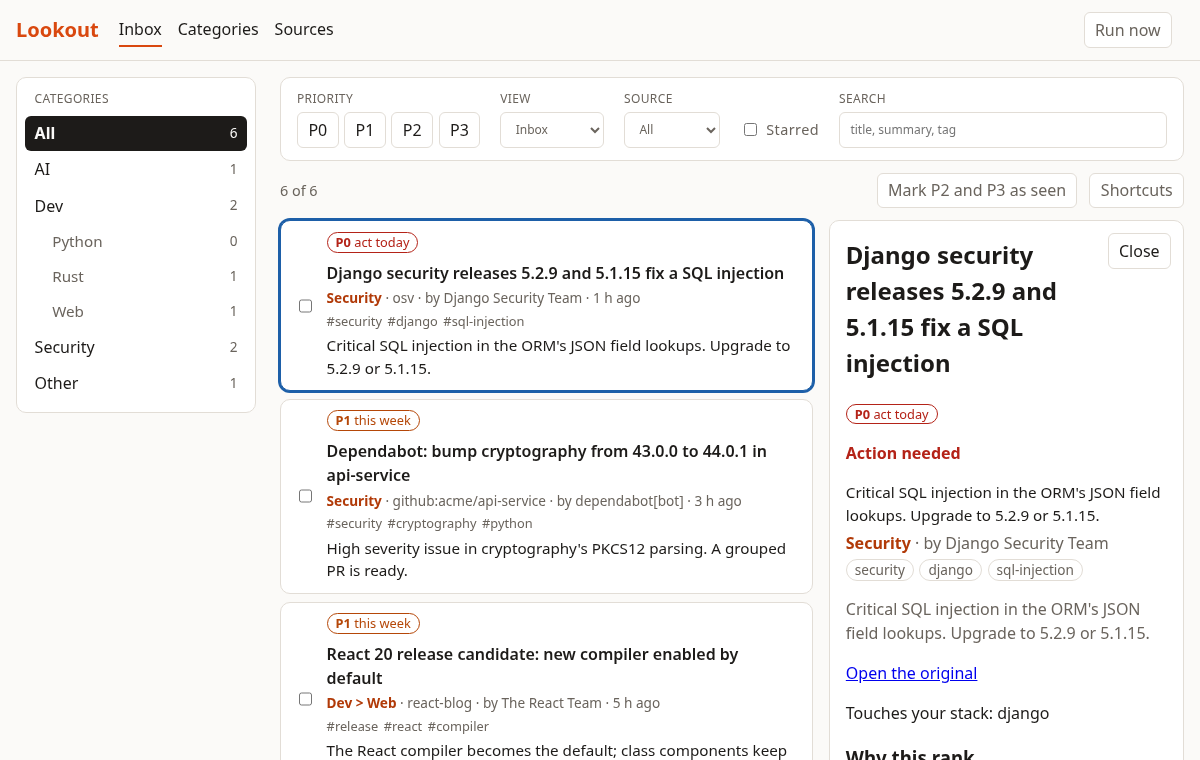
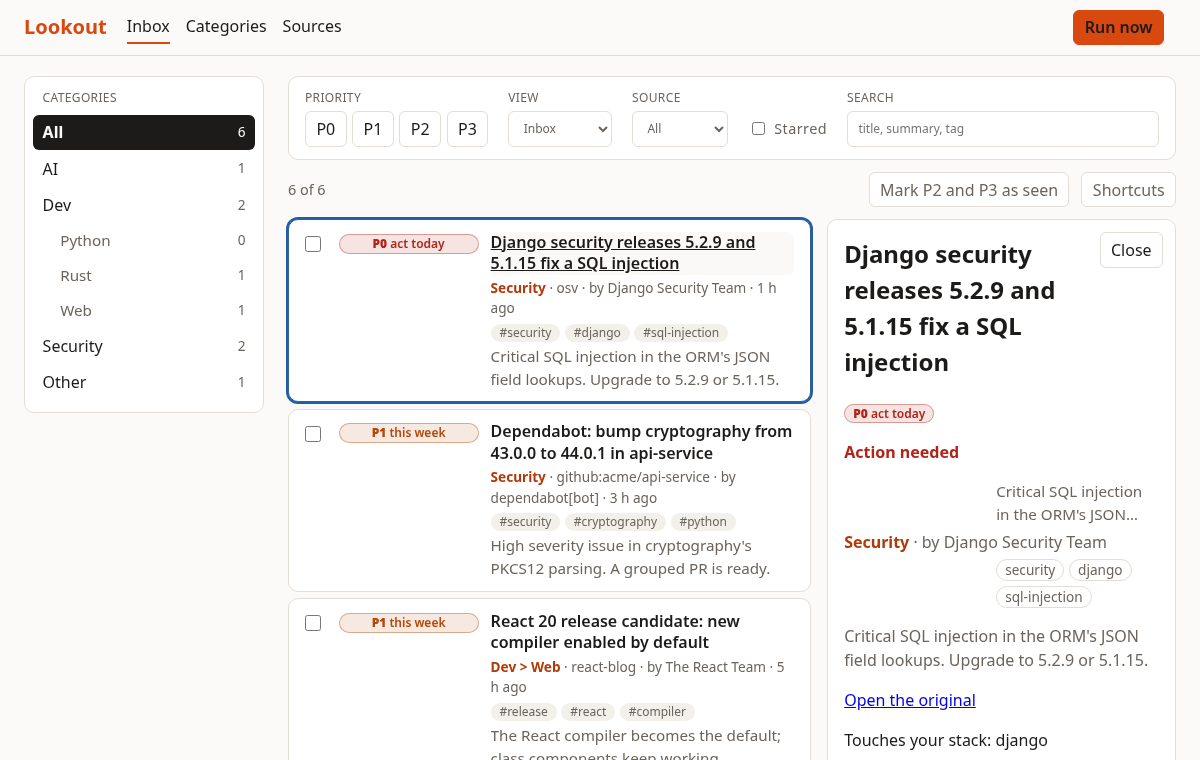
feat(dashboard): dense aligned inbox rows and a structured categories page
Titles of all items start in one column behind a fixed-width priority badge, with
metadata, tags and a two-line summary under them. Controls share one height and a
hover state, Run now is the one accent action, the header sticks, the detail panel
sticks beside the list, and the categories page is one ruled list with aligned
columns. Respects reduced motion; "1 item" is singular.

diff --git a/frontend/src/styles.css b/frontend/src/styles.css
@@ -11,6 +11,8 @@
   --p2: #1d5fa8;
   --p3: #5c6670;
   --focus: #1d5fa8;
+  --surface-2: #f3efe9;
+  --ease: 150ms ease;
   color-scheme: light dark;
 }
 @media (prefers-color-scheme: dark) {
@@ -27,6 +29,7 @@
     --p2: #7fb2ee;
     --p3: #a5aeb8;
     --focus: #7fb2ee;
+    --surface-2: #28241f;
   }
 }
 * {
@@ -577,4 +580,176 @@ td button + button {
   margin: 0.2rem 0 0;
   font-size: 0.8rem;
   color: var(--muted);
+}
+
+/* Design pass: dense, aligned and quick to scan. Titles line up in one column, metadata under them. */
+:root {
+  --badge-col: 8.75rem;
+}
+header {
+  position: sticky;
+  top: 0;
+  z-index: 5;
+  background: var(--bg);
+  padding: 0.6rem 1.5rem;
+}
+main {
+  padding: 1.25rem 1.5rem 3rem;
+}
+button,
+select,
+input[type="search"] {
+  min-height: 2rem;
+  transition:
+    background var(--ease),
+    border-color var(--ease);
+}
+button:not(:disabled):hover,
+select:hover {
+  background: var(--surface-2);
+  border-color: var(--muted);
+}
+select {
+  cursor: pointer;
+}
+.run button {
+  background: var(--accent);
+  border-color: var(--accent);
+  color: #1d1b19;
+  font-weight: 600;
+}
+.run button:disabled {
+  background: var(--card);
+  border-color: var(--line);
+  color: var(--muted);
+}
+.items {
+  gap: 0.4rem;
+}
+.item {
+  display: grid;
+  grid-template-columns: 1.25rem minmax(0, 1fr);
+  gap: 0 0.85rem;
+  padding: 0.7rem 1rem;
+  align-items: start;
+  transition: border-color var(--ease);
+}
+.item:hover {
+  border-color: var(--muted);
+}
+.item > input[type="checkbox"] {
+  margin: 0.3rem 0 0;
+  width: 1rem;
+  height: 1rem;
+}
+.item-head {
+  display: flex;
+  flex-wrap: nowrap;
+  align-items: baseline;
+  gap: 0.75rem;
+}
+.item-head .badge {
+  flex: 0 0 var(--badge-col);
+  text-align: center;
+}
+.item-head .star {
+  order: 3;
+}
+.title {
+  font-size: 1rem;
+  line-height: 1.35;
+}
+.meta,
+.tags,
+.summary {
+  margin-left: calc(var(--badge-col) + 0.75rem);
+}
+.summary {
+  color: var(--muted);
+  display: -webkit-box;
+  -webkit-line-clamp: 2;
+  -webkit-box-orient: vertical;
+  overflow: hidden;
+}
+.tags {
+  display: flex;
+  flex-wrap: wrap;
+  gap: 0.3rem;
+  margin-top: 0.3rem;
+  margin-bottom: 0;
+}
+.tags span {
+  background: var(--surface-2);
+  border-radius: 999px;
+  padding: 0 0.55rem;
+  font-size: 0.75rem;
+}
+.badge {
+  font-size: 0.75rem;
+  font-weight: 600;
+  background: color-mix(in srgb, currentColor 12%, transparent);
+  border-color: color-mix(in srgb, currentColor 40%, transparent);
+}
+@media (max-width: 700px) {
+  .item-head {
+    flex-wrap: wrap;
+  }
+  .meta,
+  .tags,
+  .summary {
+    margin-left: 0;
+  }
+}
+.detail {
+  position: sticky;
+  top: 4.5rem;
+  align-self: start;
+  max-height: calc(100vh - 5.5rem);
+  overflow-y: auto;
+}
+th {
+  font-size: 0.75rem;
+  letter-spacing: 0.03em;
+  text-transform: uppercase;
+  color: var(--muted);
+  font-weight: 600;
+}
+tbody tr:hover {
+  background: var(--surface-2);
+}
+.channels {
+  list-style: none;
+  margin: 0.75rem 0 1rem;
+  padding: 0;
+  background: var(--card);
+  border: 1px solid var(--line);
+  border-radius: 10px;
+  padding: 0 1rem;
+}
+.channels li {
+  display: flex;
+  flex-wrap: wrap;
+  align-items: center;
+  gap: 0.4rem 0.75rem;
+  padding-block: 0.6rem;
+  border-bottom: 1px solid var(--line);
+}
+.channels li:last-child {
+  border-bottom: 0;
+}
+.channels li > strong {
+  min-width: 9rem;
+}
+.channels .count {
+  min-width: 4.5rem;
+  color: var(--muted);
+  font-variant-numeric: tabular-nums;
+}
+.channels .feeders {
+  flex-basis: 100%;
+}
+@media (prefers-reduced-motion: reduce) {
+  * {
+    transition: none !important;
+  }
 }

diff --git a/frontend/e2e/shots.spec.ts b/frontend/e2e/shots.spec.ts
@@ -26,3 +26,12 @@ test("an item with the reason for its priority", async ({ browser }) => {
   await page.screenshot({ path: `${OUT}/detail-light.png` });
   await context.close();
 });
+
+test("the categories, as a tree", async ({ browser }) => {
+  const context = await browser.newContext({ colorScheme: "dark", viewport: { width: 1200, height: 760 } });
+  const page = await context.newPage();
+  await page.goto("/categories");
+  await expect(page.getByRole("region", { name: "Categories" })).toBeVisible();
+  await page.screenshot({ path: `${OUT}/categories-dark.png` });
+  await context.close();
+});

diff --git a/frontend/src/Manage.test.tsx b/frontend/src/Manage.test.tsx
@@ -248,7 +248,7 @@ describe("categories", () => {
     expect(ai).toHaveTextContent("Models");
     expect(ai).toHaveTextContent("fed by blog");
     const dev = within(panel).getByRole("button", { name: "Edit Dev" }).closest("li") as HTMLElement;
-    expect(dev).toHaveTextContent("1 items");
+    expect(dev).toHaveTextContent("1 item");
     expect(dev).toHaveTextContent("any source may file items here");
     const rust = within(panel).getByRole("button", { name: "Edit Dev > Rust" }).closest("li") as HTMLElement;
     expect(rust.style.paddingLeft).toBe("1.5rem");

diff --git a/frontend/src/components/CategoriesView.tsx b/frontend/src/components/CategoriesView.tsx
@@ -39,7 +39,9 @@ function Category({
   return (
     <li style={{ paddingLeft: `${row.depth * 1.5}rem` }}>
       <strong title={row.path}>{row.name}</strong>
-      <span className="count">{row.total} items</span>
+      <span className="count">
+        {row.total} {row.total === 1 ? "item" : "items"}
+      </span>
       {editing ? (
         <>
           <input
